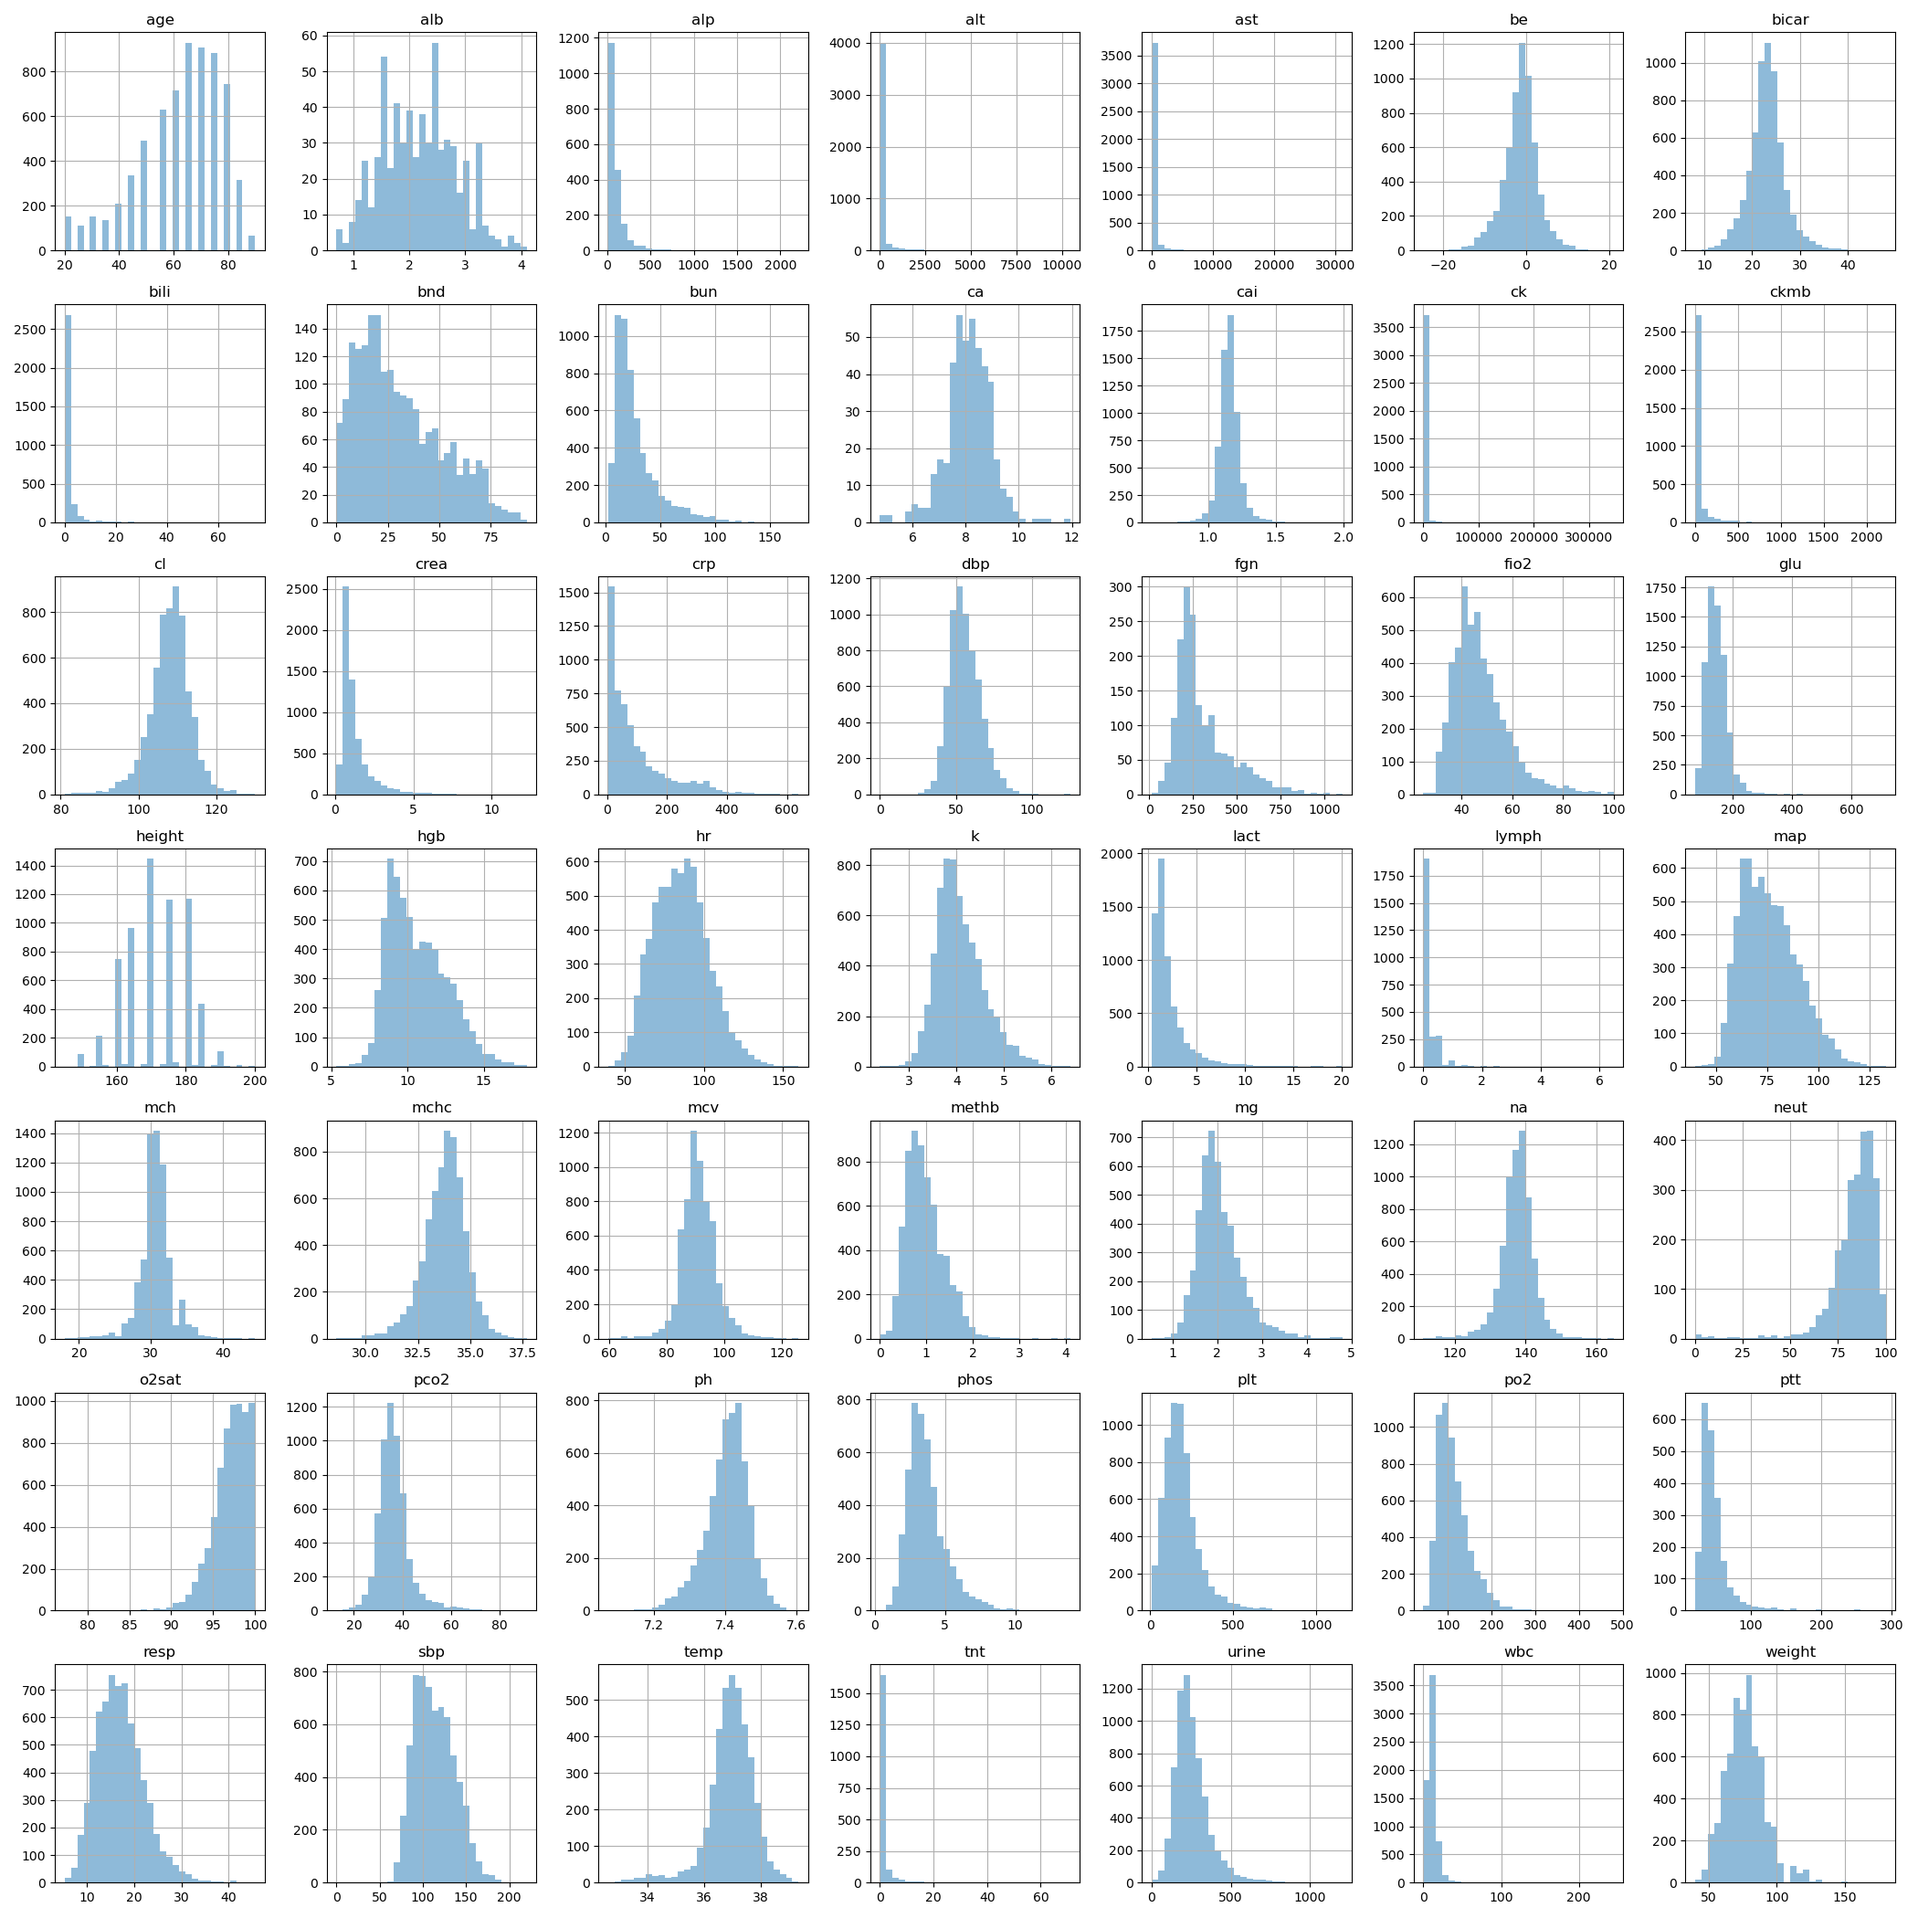
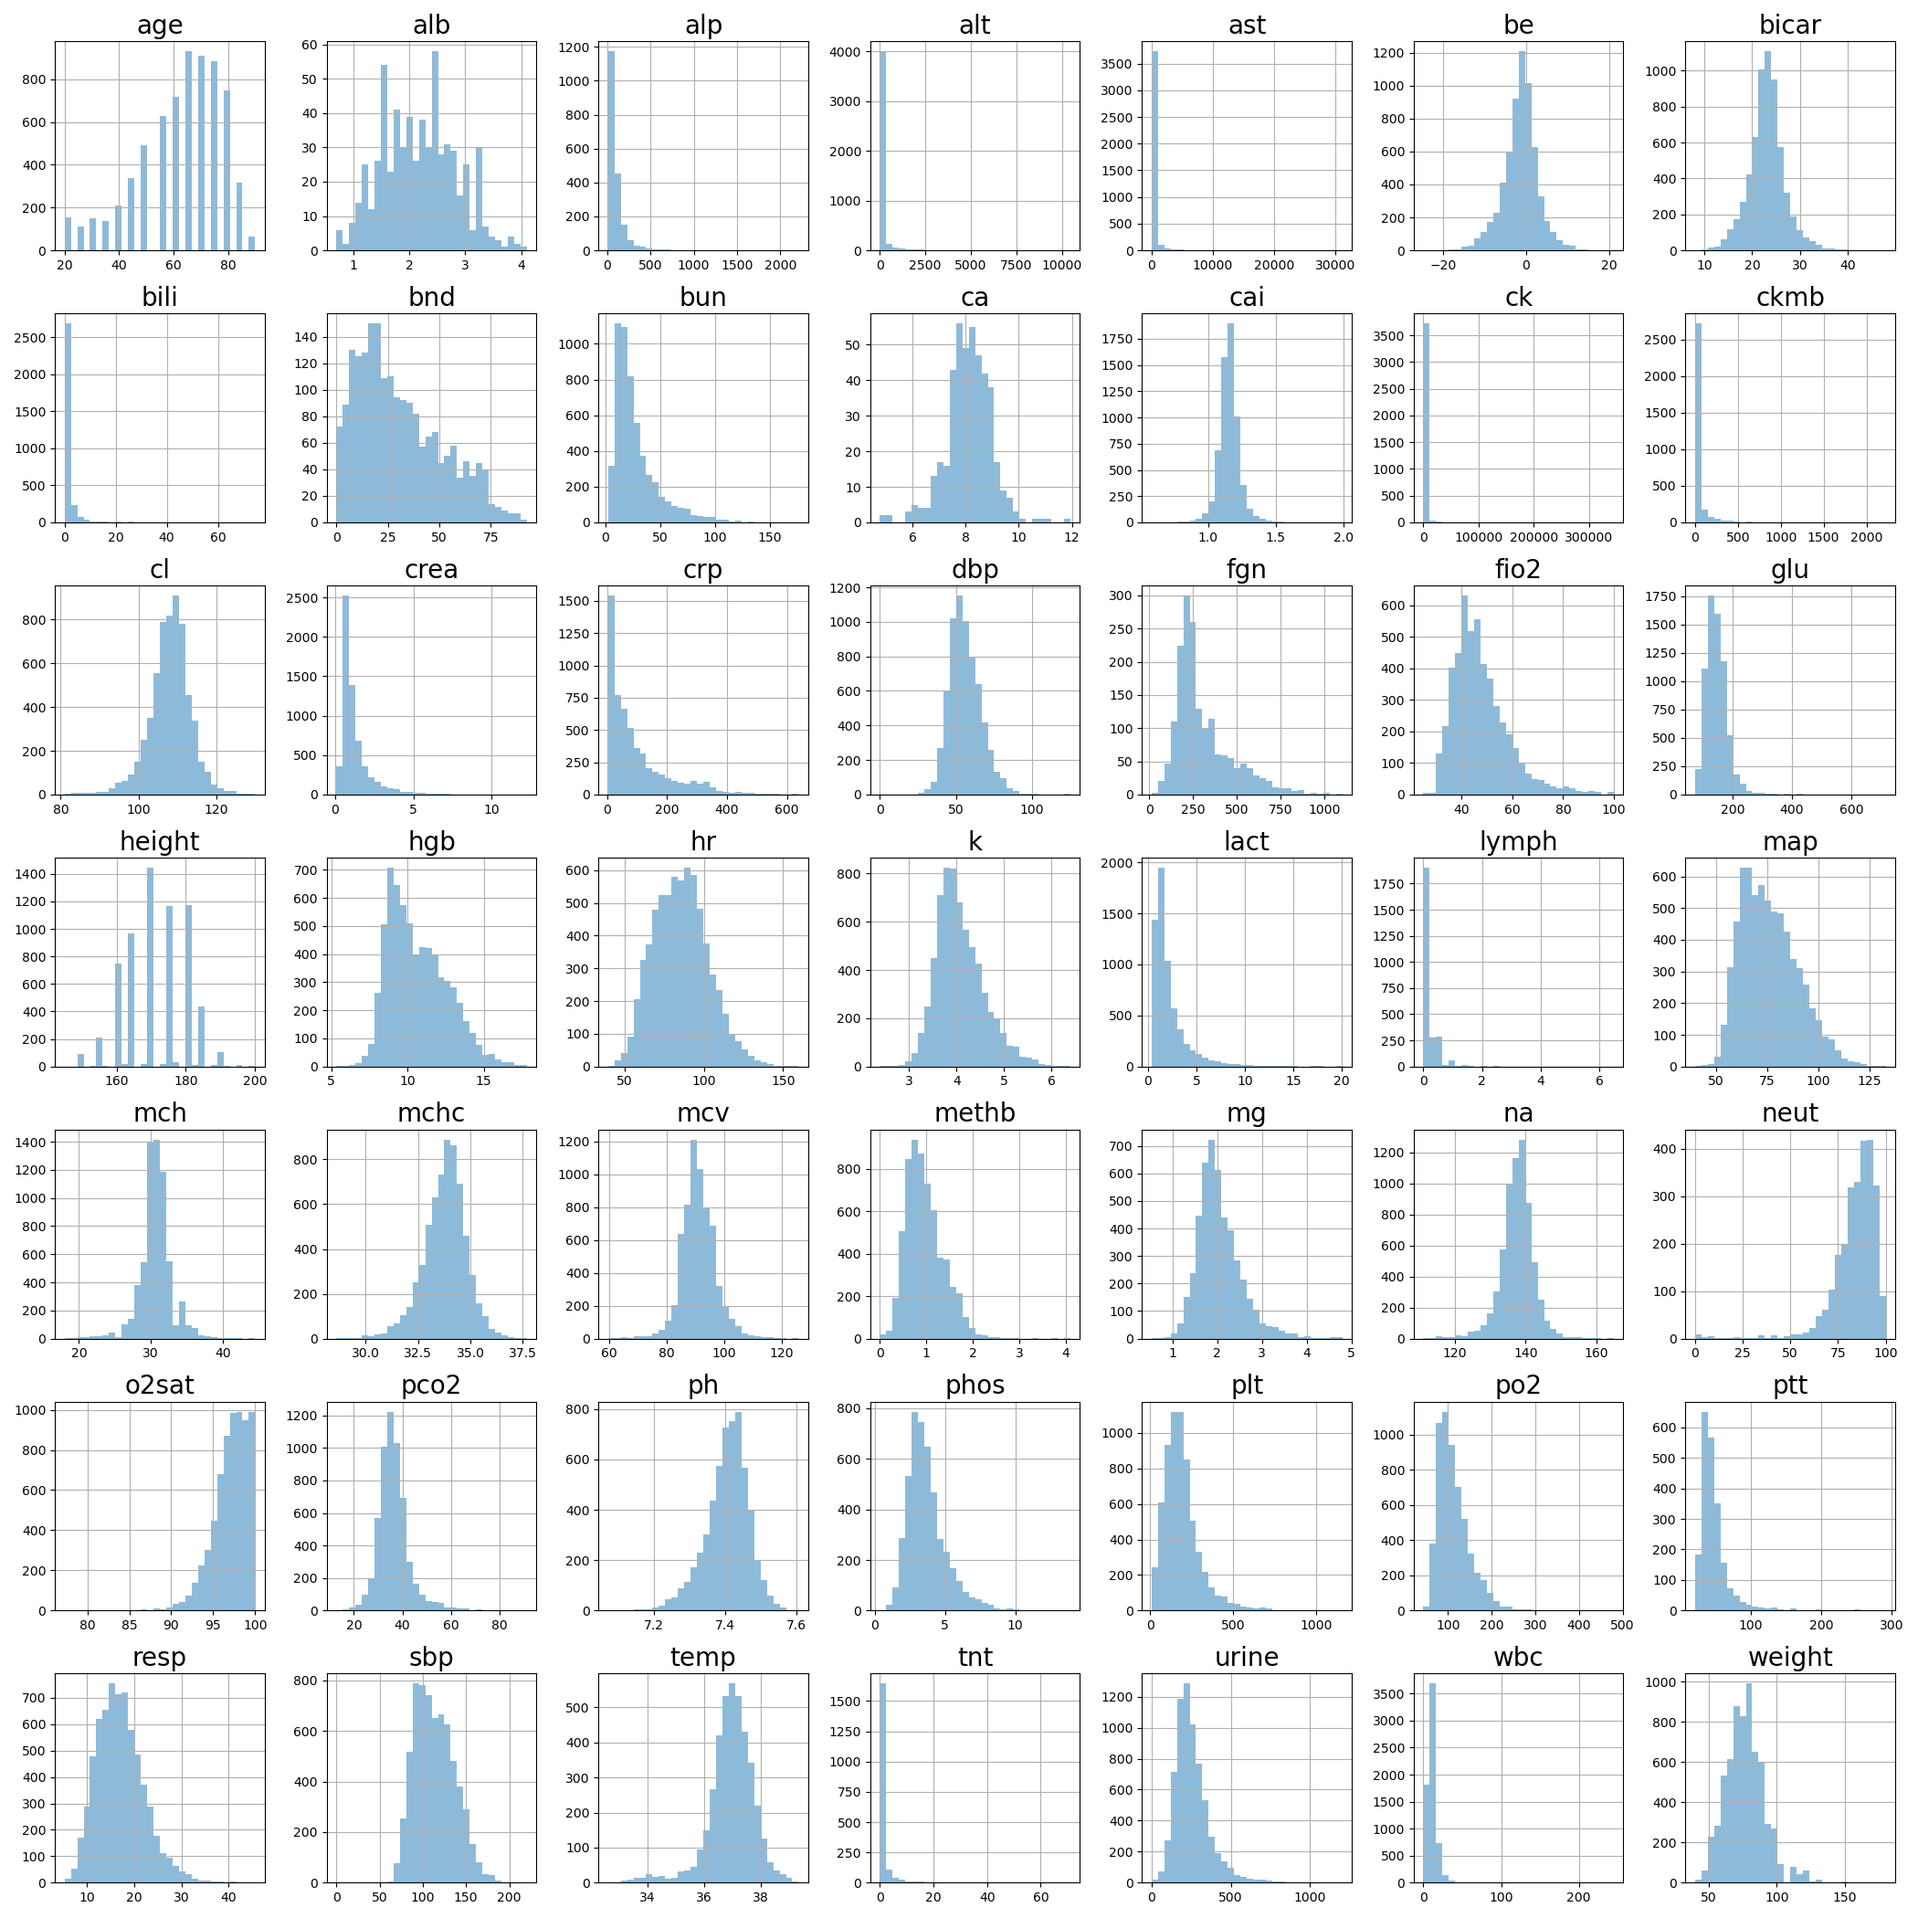
.

diff --git a/LogTransform/plot_hist.py b/LogTransform/plot_hist.py
@@ -2,6 +2,11 @@
     Generating the histograms for the predictors in our datasets.
 """
 
+import sys
+import os
+
+sys.path.append(os.path.abspath(os.path.join(os.path.dirname(__file__), '..',)))
+
 from icu_experiments.load_data import load_data_for_prediction
 
 import matplotlib.pyplot as plt
@@ -63,8 +68,9 @@ numeric = [
 df = load_data_for_prediction(log_transform=False)
 for source in datasets:
     fig, axs = plt.subplots(7,7, figsize=(21,21))
-    print(df[source]['train'][numeric].head())
     df[source]['train'][numeric].hist(ax=axs, bins=30, alpha=0.5)
+    for ax in axs.flat:
+        ax.title.set_fontsize(20)  # Adjust the font size as needed
     plt.tight_layout()
-    plt.savefig(f'Plots/hist_{source}.png')
+    plt.savefig(f'plots/hist_{source}.png')
 plt.show()

diff --git a/Feature Selection/DSL_profiles.py b/Feature Selection/DSL_profiles.py
@@ -22,7 +22,7 @@ from constants import CATEGORICAL_COLUMNS
 from icu_experiments.load_data import load_data_for_prediction
 from preprocessing import make_feature_preprocessing
 
-outcome = 'hr'
+outcome = 'map'
 method = 'lasso'
 
 data = load_data_for_prediction(outcome=outcome)

diff --git a/Feature Selection/Lasso_profiles.py b/Feature Selection/Lasso_profiles.py
@@ -22,7 +22,7 @@ from preprocessing import make_feature_preprocessing
 from constants import CATEGORICAL_COLUMNS
 from icu_experiments.load_data import load_data_for_prediction
 
-outcome = 'hr'
+outcome = 'map'
 method = 'lasso'
 
 data = load_data_for_prediction(outcome=outcome)

diff --git a/Feature Selection/Pooled_Lasso_barplot.py b/Feature Selection/Pooled_Lasso_barplot.py
@@ -12,7 +12,7 @@ import pandas as pd
 import matplotlib.pyplot as plt
 import seaborn as sns
 
-outcome = 'hr'
+outcome = 'map'
 datasets = ['eicu', 'mimic', 'miiv', 'hirid']
 
 coefs = pd.read_parquet(f'parquet/{outcome}/Pooled_Lasso_coefs_{outcome}.parquet')
